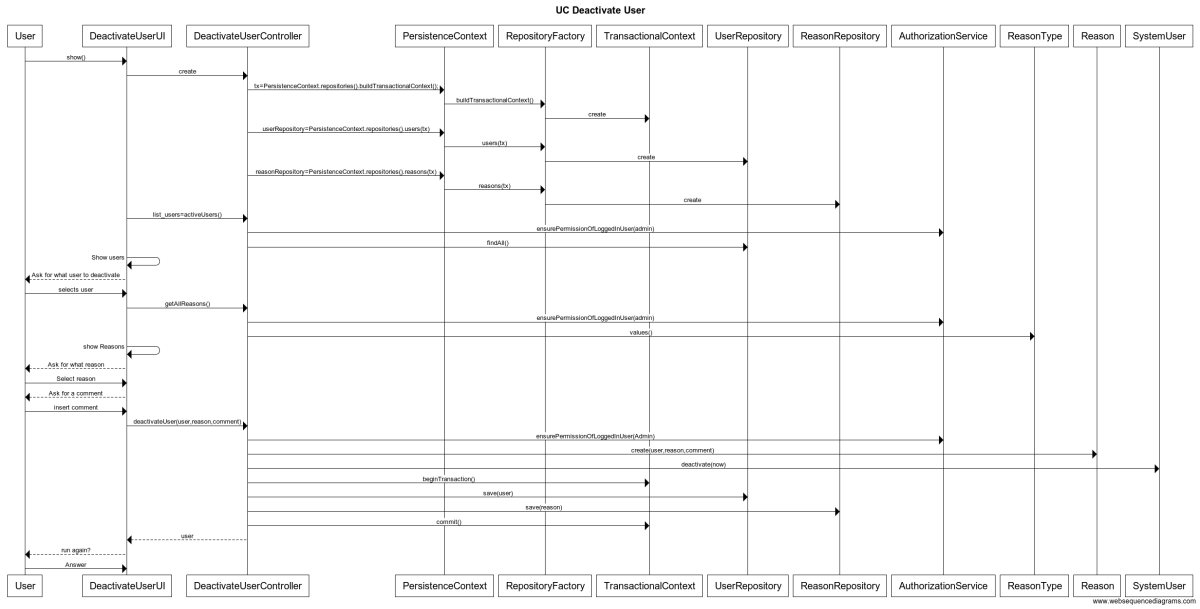
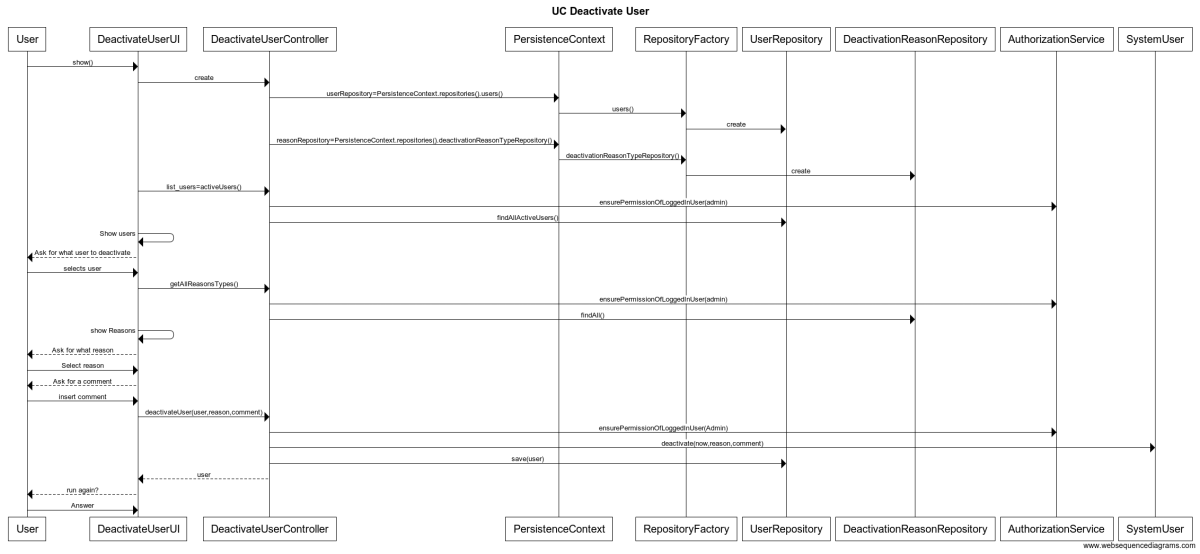
Issue #96 Finished

diff --git a/ecafeteria.app.backoffice.console/src/main/java/eapli/ecafeteria/app/backoffice/console/presentation/authz/DeactivateUserUI.java b/ecafeteria.app.backoffice.console/src/main/java/eapli/ecafeteria/app/backoffice/console/presentation/authz/DeactivateUserUI.java
@@ -54,7 +54,7 @@ import eapli.framework.util.Console;
             if (option == 0) {
                 System.out.println("No user selected");
             } else {
-                final Iterable<DeactivationReasonType> reason_iterable = theController.getAllReasons();
+                final Iterable<DeactivationReasonType> reason_iterable = theController.getAllReasonsTypes();
                 SelectWidget<DeactivationReasonType> select_reason = new SelectWidget<>("Select Reason", reason_iterable);
                 select_reason.show();
                 int reason_option = select_reason.selectedOption();

diff --git a/ecafeteria.core/src/main/java/eapli/ecafeteria/application/authz/DeactivateUserController.java b/ecafeteria.core/src/main/java/eapli/ecafeteria/application/authz/DeactivateUserController.java
@@ -30,7 +30,7 @@ public class DeactivateUserController implements Controller {
         return this.userRepository.findAllActiveUsers(true);
     }
 
-    public Iterable<DeactivationReasonType> getAllReasons() {
+    public Iterable<DeactivationReasonType> getAllReasonsTypes() {
         AuthorizationService.ensurePermissionOfLoggedInUser(ActionRight.ADMINISTER);
         return dRepo.findAll();
     }
